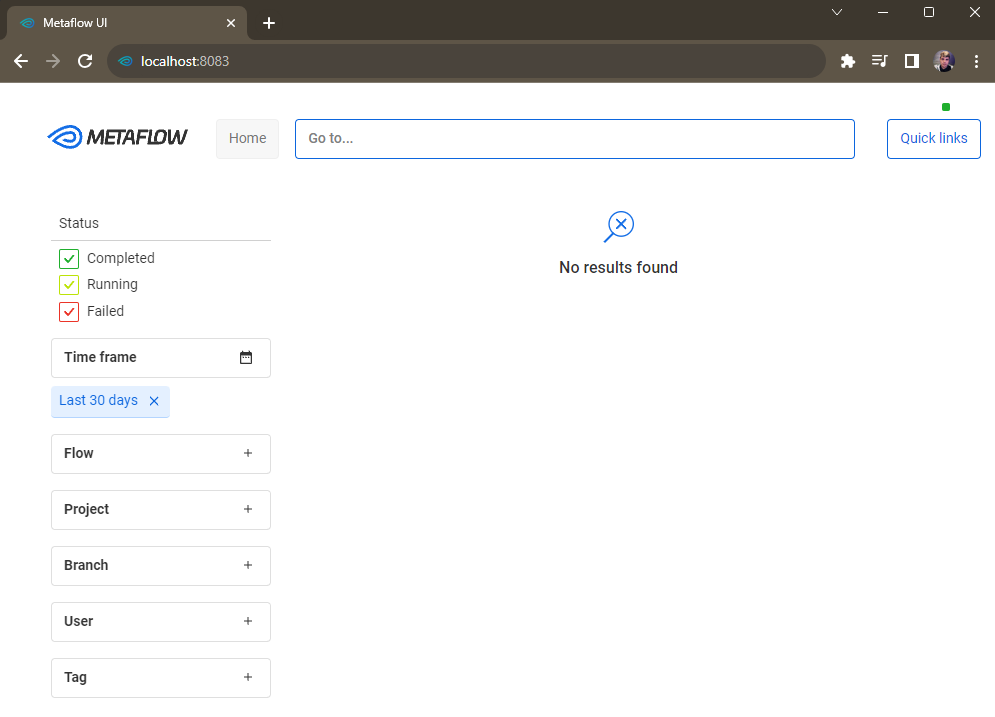
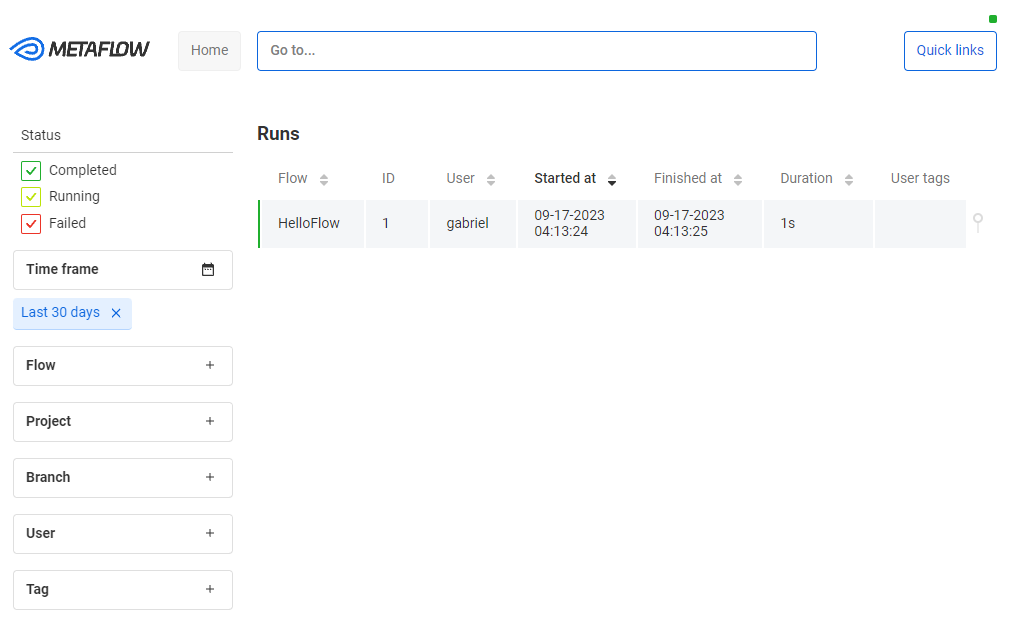
update docs

diff --git a/README.md b/README.md
@@ -1,8 +1,11 @@
 # metaflow-docker-deployment
-Fully functional Metaflow metadata service and UI deployment with docker and docker-compose. See [why Metaflow](https://docs.metaflow.org/introduction/why-metaflow).  
-![What is Metaflow](./docs/image.png)
-## Local Deployment
-Run the compose file to up Metaflow UI, metadata/migration service and database:
+Fully functional Metaflow metadata service, UI and datastore deployment with docker and docker-compose. See [why Metaflow](https://docs.metaflow.org/introduction/why-metaflow).  
+![What is Metaflow](./docs/image.png)  
+*Image by https://metaflow.org/*
+## Usage
+First of all, make sure you have the following: `python3`, `python3-venv`, `make`, `docker` and `docker-compose`.  
+### Up the containers
+Run the compose file to bring up Metaflow UI, metadata/migration service, database and datastore:
 ```console
 $ docker-compose -f docker-compose-metaflow.yml up -d
 ```
@@ -10,13 +13,36 @@ You should be able to find that
 * Metaflow UI service is available at `localhost:8083`
 * Metaflow metadata service is available at `localhost:8081`
 * Metaflow migration service is available at `localhost:8082`
-* Metaflow database (postgresql) is available at `localhost:5432`
-
-Wait a few seconds and verify that everything is working as expected by visually inspecting the [Metaflow UI](localhost:8083) or pinging containers:
+* Metaflow database (postgresql) is available at `localhost:10000`
+* Metaflow datastore (minio) console is available at `localhost:10001`
+* Metaflow datastore (minio) S3 API is available at `localhost:10002`
+### Configure metaflow
+When running flows, metaflow will look for profile configurations at `~./metaflowconfig`. Let's create a new `METAFLOW_PROFILE` called `local` there, configured to use our recently deployed stack:
+```console
+$ bash add_metaflow_config_local.sh
+```
+### To verify that everything is working
+Create a virtual environment with `metaflow` by running:
+```console
+$ make install
+```
+Activate `.venv`:
+```console
+$ source .venv/bin/activate
+```
+Now you can try running the `hello_flow.py` with the `local` profile. Note that we need to provide AWS access and secret keys, because metaflow will need them to connect to S3 (local minio in our case) via `boto3`:  
+```console
+$ METAFLOW_PROFILE=local AWS_ACCESS_KEY_ID=dummy_access_key AWS_SECRET_ACCESS_KEY=dummy_secret_key python hello_flow.py run
+```
+Visually inspect the results in the [Metaflow UI](localhost:8083):  
+![Metaflow UI](./docs/image-1.png)  
+Search for artifacts in the [Metaflow Datastore Bucket](localhost:10001) (user: `dummy_access_key`, pass: `dummy_secret_key`):  
+![Metaflow Datastore Bucket](./docs/image-2.png)  
+Ping containers:
 ```console
 $ curl -v localhost:8081/ping localhost:8082/ping localhost:8083/ping
 ```
-![Metaflow UI](./docs/image-1.png)  
+### Terminating
 To shut everything down, remember to run:
 ```console
 $ docker-compose -f docker-compose-metaflow.yml down
